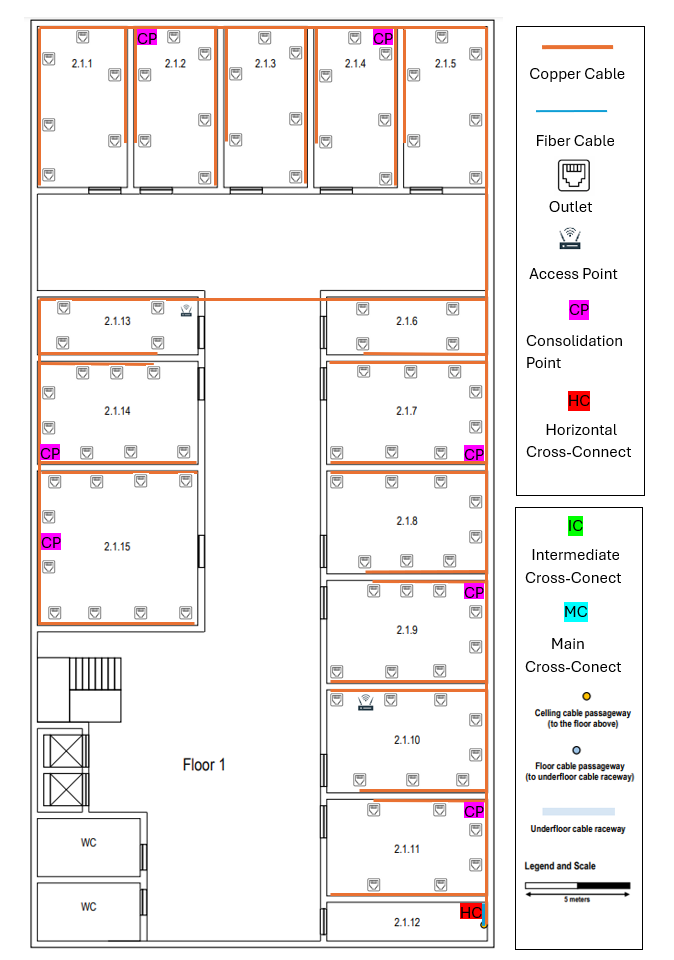
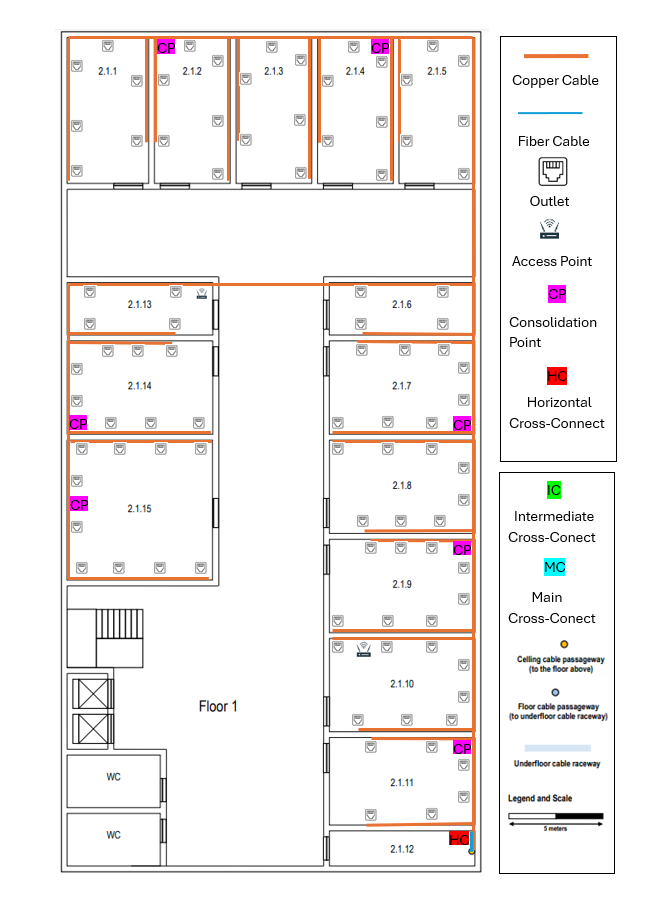
Sprint 1 completed

Changed region(s): [[0.0304, 0.0, 0.9741, 1.0], [0.761, 0.9792, 0.9437, 1.0], [0.274, 0.765, 0.3653, 0.8262]]

diff --git a/doc/Sprint_1/1222123/README.md b/doc/Sprint_1/1222123/README.md
@@ -1,10 +1,14 @@
 ## Building 2 ##
 
-### Floor 0 (Ground Floor) ###
+### General Information ###
 
-![cabling_building2_floor0](cabling_building2_floor0.png)
+- This building horizontal dimensions are, approximately, 20x40 meters.
+- Both floors must have wireless LAN coverage (Wi-Fi).
 
-### 1.Information ###
+## 1. Information ##
+
+### Floor 0 ###
+
 - The ceiling height on this floor is 4 meters.
 - Common areas, like the entrance hall, restrooms, and stairs, require no network outlets.
 - Rooms 2.0.6 and 2.0.7 have specific
@@ -14,7 +18,26 @@
   hardware.
 - In every identified room, the standard number of network outlets per area rate should be honoured.
 
-## 2.Measurements ###
+
+### Floor 1  ###
+
+- The ceiling height on this floor is 3 meters, however there’s a removable dropped ceiling, placed 2.5 meters from the ground, covering the entire floor.
+- The space over the dropped ceiling is perfect to install cable raceways and wireless access-points.
+- No network outlets are required at restrooms and common areas like corridors and halls.
+- Room 2.1.12 is a storage area, no network outlets are
+  required there as well, and it may be used to house a cross-connect and other network infrastructure
+  hardware.
+- In every identified room, the standard number of network outlets per area rate should be honoured.
+
+
+## 2. Measurements ##
+
+**Excel with all the details about measurements**
+- [Download Measurements_Building2.xlsx](Measurements_Building2.xlsx)
+
+### Floor 0 ###
+
+![measurements_building2_floor0](measurements_building2_floor0.png)
 
 | Rooms  | Area in m2 | Nº outlets |
 |--------|------------|------------|
@@ -28,32 +51,11 @@
 | 2.0.8  | 28,05      | 6          |
 | 2.0.9  | 28,05      | 6          |
 | 2.0.10 | 15,52      | 4          |
-
-### 3.Floor 0 Inventory ###
-
-- 58 outlets.
-- 4 Consolidation Points.
--  Switches.
-- 1 Horizontal Cross-connects.
-- 1 Intermediate Cross-connect.
-- 2 Access Points with a radium of 25m.
-- CAT7 copper cable  meters.
-
+***Total Outlets:*** 58
 
 ### Floor 1 ###
 
-![cabling_building2_floor1](cabling_building2_floor1.png)
-
-### 1.Information ###
-- The ceiling height on this floor is 3 meters, however there’s a removable dropped ceiling, placed 2.5 meters from the ground, covering the entire floor.
-- The space over the dropped ceiling is perfect to install cable raceways and wireless access-points.
-- No network outlets are required at restrooms and common areas like corridors and halls.
-- Room 2.1.12 is a storage area, no network outlets are
-  required there as well, and it may be used to house a cross-connect and other network infrastructure
-  hardware.
-- In every identified room, the standard number of network outlets per area rate should be honoured.
-
-## 2.Measurements ###
+![measurements_building2_floor1](measurements_building2_floor1.png)
 
 | Room   | Area in m2 | Nº outlets |
 |--------|-----------|------------|
@@ -72,22 +74,172 @@
 | 2.1.14 | 30,36     | 8          |
 | 2.1.15 | 46,23     | 10         |
 
-### 3.Floor 1 Inventory ###
+***Total Outlets:*** 94
 
-- 60 outlets.
-- 7 Consolidation Points.
--  Switches.
-- 1 Horizontal Cross-connects.
-- 2 Access Point with a radium of 25m.
-- CAT7 copper cable  meters.
+## 3. Structured Cabling Schematic Plan ##
+
+### Floor 0 ###
+
+![CableStructure_Building2_Floor1](cabling_building2_floor0.png)
 
 
-### Full Inventory ###
+### Floor 1 ###
 
-- 152 outlets.
-- 11  Consolidation Points.
--  Switches.
-- 2 Horizontal Cross-connects.
-- 1 Intermediate Cross-connect.
-- 4 Access Point with a radium of 25m.
-- CAT7 copper cable  meters.
+![CableStructure_Building2_Floor1](cabling_building2_floor1.png)
+
+## 4. Inventory ##
+
+## ***Cables*** ##
+
+As defined by the team in the Planning section:
+- copper cables will be **Category 7 (CAT7) Copper Cables**.
+- fiber cables will be **Monomode Fiber Cables**.
+
+The maximum distance of the cables is **90 meters**.
+
+**The Horizontal Cross-Connect (HCC) and the Consolidation Point (CP) must be placed 1.7m from the floor.**
+
+**The outlets must be placed 0.7m from the floor.**
+
+These details are already included in the cable measurements.
+
+
+### Floor 0 ###
+
+***CAT7 Copper Cables:***
+
+- From HC to CP's: 132,48m
+- From CP's to Outlets: 649,28m
+- From HC to Acess Point: 58m
+
+Total Copper Cable Length: 839.76m
+
+***Monomode Fiber Cable:***
+
+**From ICC to Outside:** 9.97m
+- **From ICC to HCC (Room 2.0.11):** 1m
+
+Total Fiber Cable: 10.97m
+
+
+### Floor 1 ###
+
+***CAT7 Copper Cables:***
+
+- From HC to CP's: 529,28m
+- From CP's to Outlets: 882,8m
+- From HC to Acess Point: 53,27m
+
+Total Copper Cable Length: 1465,35m
+
+***Monomode Fiber Cable:***
+
+- **From ICC to HCC (Room 2.1.12):** 6,6m
+
+Total Fiber Cable: 6,6m
+
+## ***Patch Panels*** ##
+
+The patch panels must comply with the cable specifications.
+Since we chose CAT7 cables, all patch panels will also be CAT7.
+Similarly, as we selected Monomode Fiber Cable, the Fiber Patch Panels must be compatible with Monomode as well.
+
+### Floor 0 ###
+
+- 1 fiber patch panel of 12 ports (ICC)(Room 2.0.11);
+- 1 copper patch panel of 12 ports (HCC)(Room 2.0.11);
+- 1 fiber patch panel of 12 ports (ICC)(Room 2.0.11);
+- 1 patch panel of 12 ports (CP)(Room 2.0.6);
+- 3 patch panels of 24 ports (CP's)(Rooms 2.0.3, 2.0.5, 2.0.9);
+
+#### Total: **3 patch panels of 12 ports** and **3 patch panels of 24 ports** and **2 fiber patch panels of 12 ports**
+
+
+### Floor 1 ###
+
+- 1 fiber patch panel of 12 ports (MCC)(Room 2.1.12); 
+- 1 copper patch panel of 12 ports (HCC)(Room 2.1.12);
+- 1 copper patch panel of 12 ports (CP)(Room 2.1.15);
+- 6 copper patch panels of 24 ports (CP's)(Rooms 2.1.2, 2.1.4, 2.1.7, 2.1.9, 2.1.11, 2.1.14);
+
+#### Total: **2 copper patch panels of 12 ports** and **6 copper patch panels of 24 ports** and **1 fiber patch panel of 12 ports** 
+
+
+## ***Racks*** ##
+
+### Floor 0 ###
+For the **Intermediate Cross-Connect:**
+
+- **1U** for 1 fiber patch panel of 12 ports;
+- **1U** switch;
+- **2U** an additional 100% over dimensioning.
+
+#### **Total**: 4U
+
+For the **Horizontal Cross-Connect:**
+
+- **1U** for 1 copper patch panel of 12 ports;
+- **1U** for 1 fiber patch panel of 12 ports;
+- **1U** switch;
+- **3U** an additional 100% over dimensioning.
+
+#### **Total**: 6U
+
+For each of the 1 **Consolidation Point (12 ports)**
+
+- **1U** for 1 copper patch panel of 12 ports;
+- **1U** switch;
+- **2U** an additional 100% over dimensioning.
+
+#### **Total**: 4U
+
+For each of the 3 **Consolidation Point (24 ports)**
+
+- **1U** for 1 copper patch panel of 24 ports;
+- **1U** switch;
+- **2U** an additional 100% over dimensioning.
+
+#### **Total**: 4U
+
+
+
+### Floor 1 ###
+
+For the **Horizontal Cross-Connect:**
+
+- **1U** for 1 copper patch panel of 12 ports;
+- **1U** for 1 fiber patch panel of 12 ports;
+- **1U** switch;
+- **3U** an additional 100% over dimensioning.
+
+#### **Total**: 6U
+
+For each of the 1 **Consolidation Point (12 ports)**
+
+- **1U** for 1 copper patch panel of 12 ports;
+- **1U** switch;
+- **2U** an additional 100% over dimensioning.
+
+#### **Total**: 4U
+
+For the 6 **Consolidation Point (24 ports)**
+
+- **1U** for 1 copper patch panel of 24 ports;
+- **1U** switch;
+- **2U** an additional 100% over dimensioning.
+
+#### **Total**: 4U
+
+## **TOTAL INVENTORY** ##
+
+- Outlets: 152 + 4 Access Points
+- CAT7 Copper Cable (m): 2305,11
+- Monomode Fiber Cable (m): 17,57
+- Intermediate Cross-Connect (ICC): 1
+- Horizontal Cross-Connect (HCC): 2
+- Consolidation Points (CP): 11
+- Access Point (AP): 4
+- Copper Patch Panels (12 ports): 5
+- Copper Patch Panels (24 ports): 9
+- Fiber Patch Panels (12 ports): 3
+- Telecommunication enclosures: 14 
